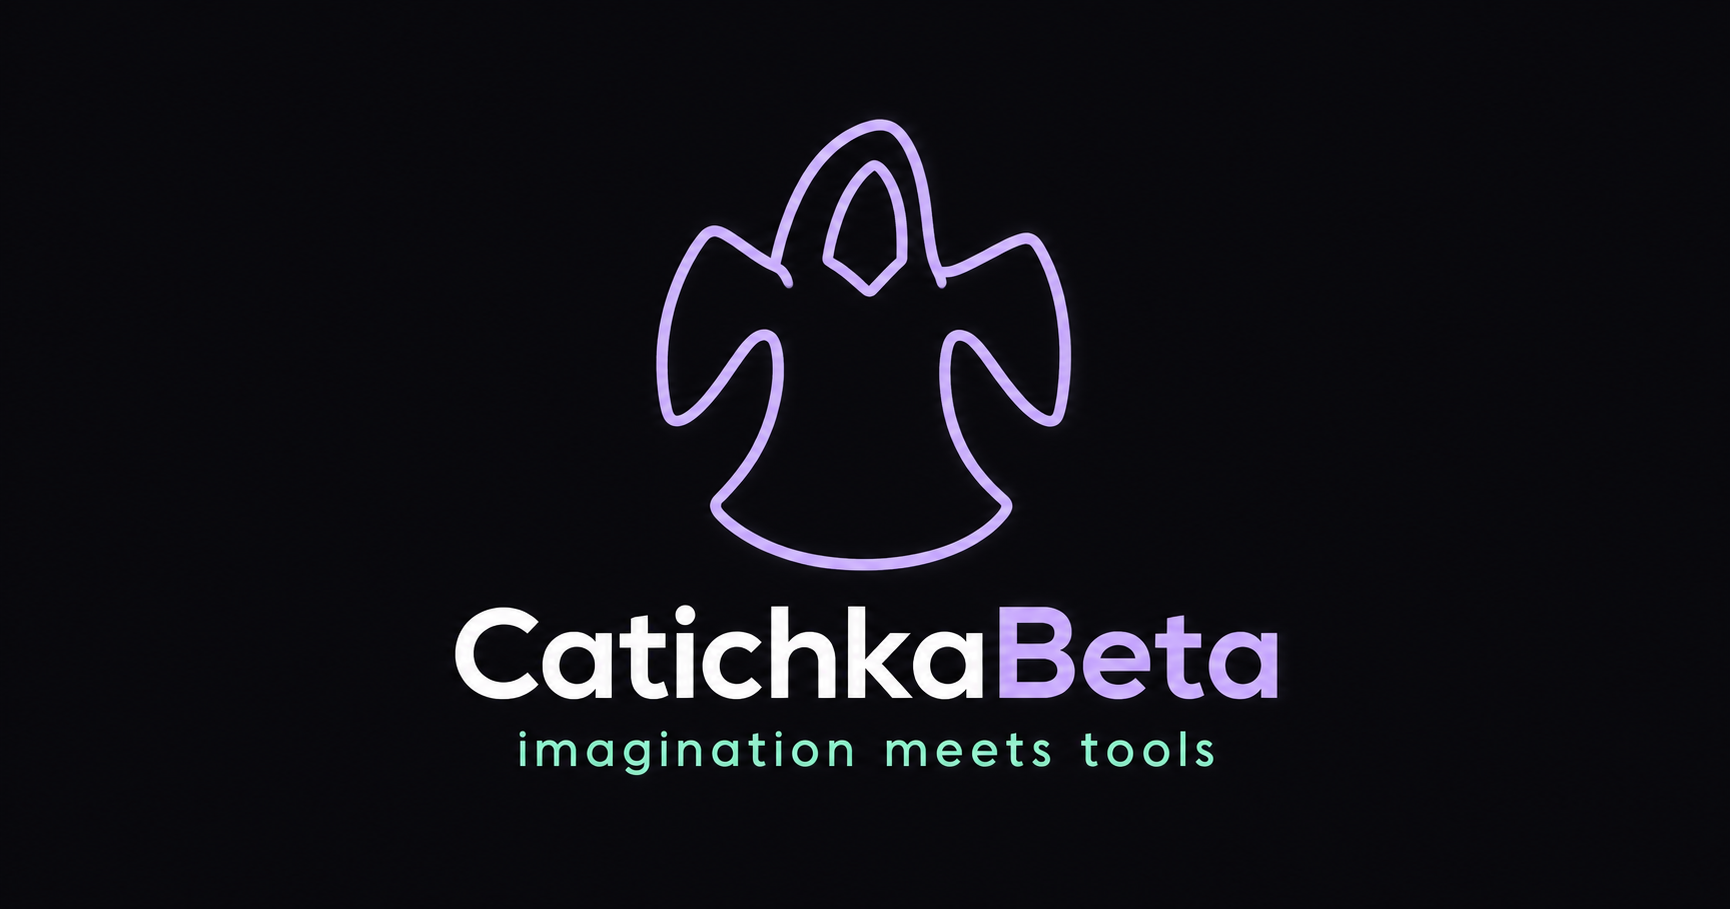
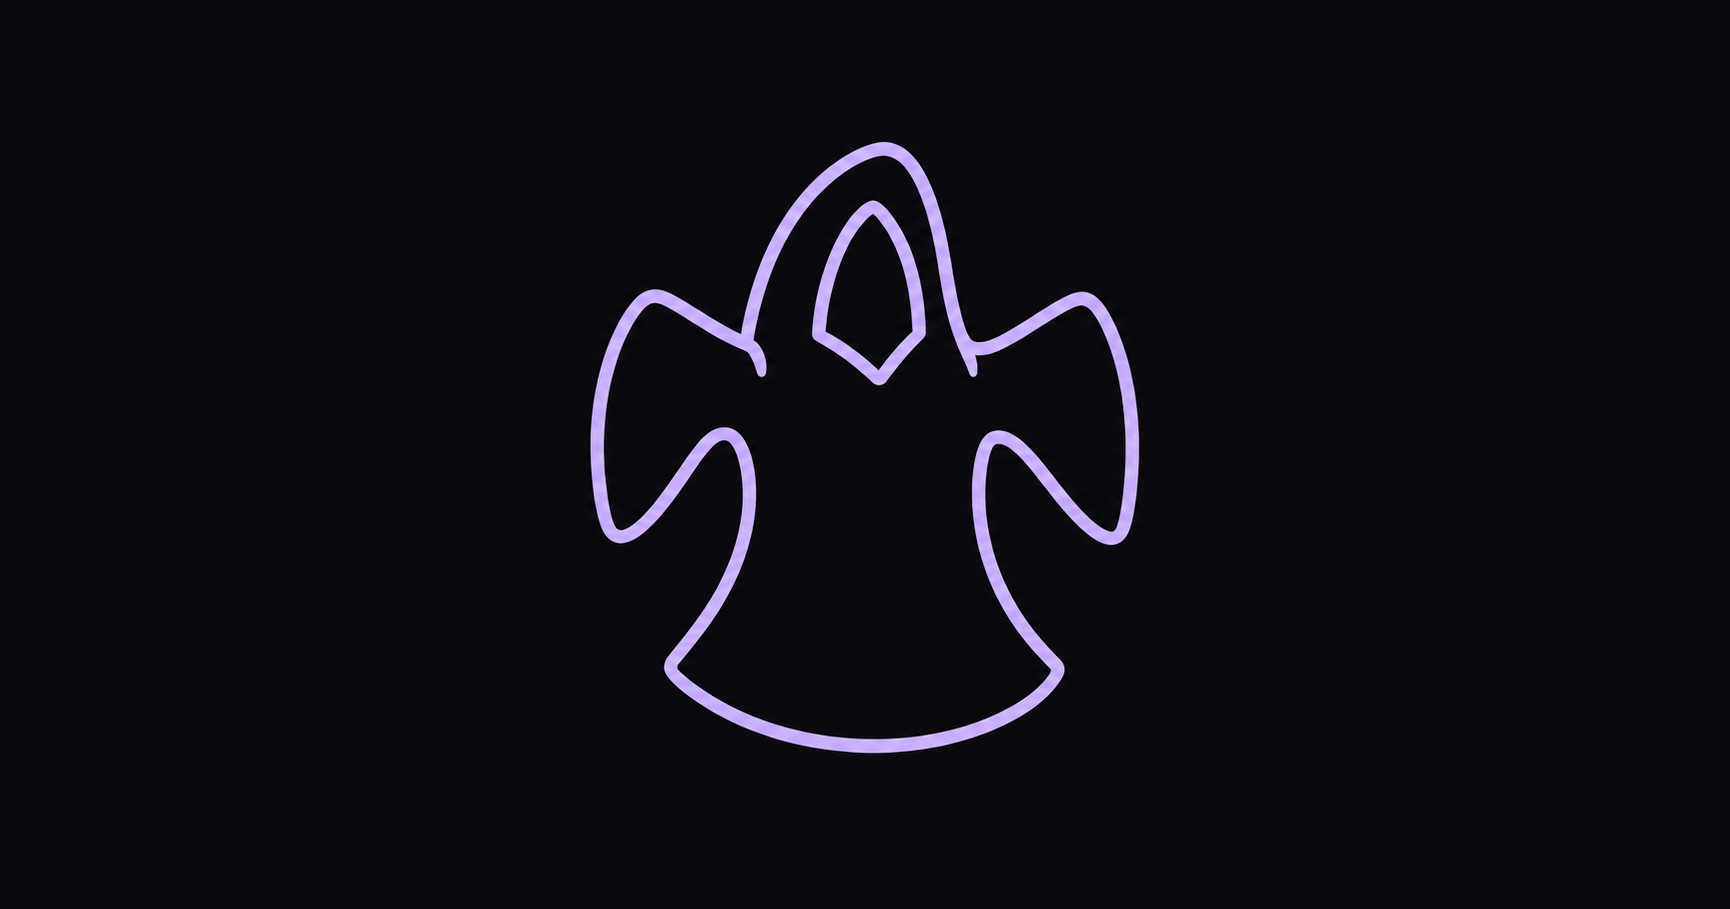
Simplify share image to druid only, without words

Changed region(s): [[0.2497, 0.1232, 0.7491, 0.8625]]

diff --git a/docs/art/DRUID-SHARE-IMAGE.md b/docs/art/DRUID-SHARE-IMAGE.md
@@ -1,19 +1,9 @@
-# Druid social sharing image
+# Druid share image — corrected direction
 
-Asset: `public/art/catichkabeta-share-druid-v1.png`
+Catherine requested just the druid, no words. This version replaces the original wordmark/tagline card in this PR.
 
-Original image: 1730 × 909 px, opaque PNG (1,258,585 bytes), approximately 1.91:1 landscape. Artwork inspected: lavender approved druid silhouette, CatichkaBeta wordmark and mint `imagination meets tools` headline, near-black background. Created with the built-in image-generation tool from the approved druid reference.
+Asset: `public/art/catichkabeta-share-druid-v1.png`. Opaque PNG, 1730 × 909 px (1,158,464 bytes). Lavender outline druid centered on near-black with generous space; no text or other decoration. Generated with the built-in image tool from the approved logo reference and visually inspected.
 
-## Claude integration
+Claude: use for the default Open Graph and Twitter/X large-card image, via an absolute URL on the verified deployment origin. Alt text: `CatichkaBeta's lavender outline druid on a near-black background.` Dimensions: 1730 × 909; type: image/png. For delivery, resize proportionally to a 1200 × 630 canvas and optimize the file, preserving the full silhouette and margins. Verify a real deployed link preview. This PR changes artwork and notes only.
 
-Use as the default site-wide Open Graph and large Twitter/X card image. Set `og:image` and `twitter:image` to an absolute public URL on the verified deployment origin, pointing to `/art/catichkabeta-share-druid-v1.png`. Use `summary_large_image`; image width 1730, height 909, MIME `image/png`.
-
-Suggested image alt: `CatichkaBeta's lavender outline druid above the words CatichkaBeta and imagination meets tools on a near-black background.`
-
-If a destination requires 1200 × 630, export a proportionate resized copy, preserving the whole composition and safe margins. Do not stretch or redraw the character. Confirm the deployed image URL is publicly accessible, and inspect a real link preview after integration. This PR supplies artwork and notes only; metadata wiring and deployment remain with Claude.
-
-## Generation brief
-
-Playful soft-cyberpunk illustration, clean shapes, pastel neon glow (lavender, mint, peach, baby blue, pink) on a near-black background, subtle grid and wireframe details, friendly and a little nerdy, not gritty, no text unless asked.
-
-Compose a landscape social sharing card from the approved druid reference. Preserve the druid's simple lavender monoline silhouette, empty face opening, raised drooping sleeves and rounded robe hem. One druid above the exact CatichkaBeta wordmark (white Catichka, lavender Beta), with the exact mint headline `imagination meets tools`. Near-black background, generous margins, restrained glow, no extra decoration or character details.
+Generation brief: Playful soft-cyberpunk illustration, clean shapes, pastel neon glow (lavender, mint, peach, baby blue, pink) on a near-black background, subtle grid and wireframe details, friendly and a little nerdy, not gritty, no text unless asked. Preserve the approved druid silhouette in simple lavender monoline: tall rounded hood, empty face opening, broad raised drooping sleeves, rounded robe hem. One centered druid only, generous margins, no text, no added details.
